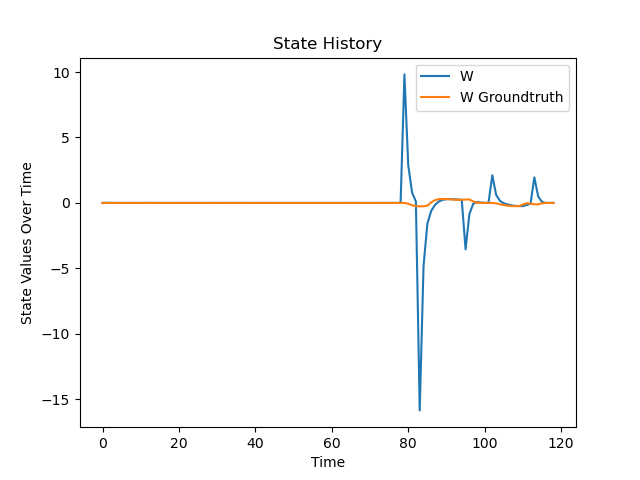
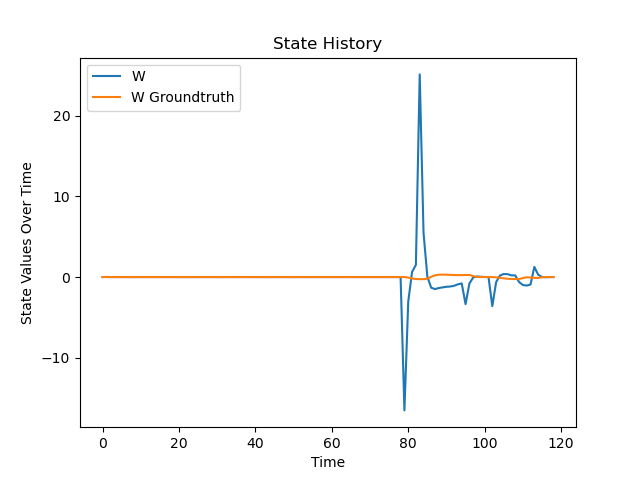
Updated code to match corrected model

diff --git a/Python_Code/EKF_pred.py b/Python_Code/EKF_pred.py
@@ -1,7 +1,7 @@
 import numpy as np  
 from var_store import var_store
 import math as m
-from math import tan,cos
+from math import tan,cos,sqrt
 
 class EKF_pred(var_store):
 
@@ -25,9 +25,9 @@ class EKF_pred(var_store):
 		#vars from input		
 		del_dot_m1	= self.del_dot_m1(del_k_m1)	
 		#print('del_dot_m1',del_dot_m1)
-		row_1 = np.array([dt*(-b + c1) + 1,0,0])
-		row_2 = np.array([L*dt*tan(del_k_m1)/(L**2 + L_r**2*tan(del_k_m1)**2),1,0])
-		row_3 = np.array([L*del_dot_m1*dt*(L**2 - L_r**2*tan(del_k_m1)**2)/((L**2 + L_r**2*tan(del_k_m1)**2)**2*cos(del_k_m1)**2),0,1])
+		row_1 = np.array([1 + (c1 - b)*dt,0,0])
+		row_2 = np.array([tan(del_k_m1)*dt/sqrt(L**2 + L_r**2*tan(del_k_m1)**2),1,0])
+		row_3 = np.array([L**2*del_dot_m1*(tan(del_k_m1)**2 + 1)*dt/(L**2 + L_r**2*tan(del_k_m1)**2)**1.5,0,1])
 		ret_val =  np.stack([row_1,row_2,row_3])
 		assert ret_val.shape == (3,3), 'weird jacobian size'
 		return ret_val
@@ -42,7 +42,6 @@ class EKF_pred(var_store):
 	def del_dot_m1(self,del_k_m1):
 		self.del_dot_m1_val = (del_k_m1 - self.del_k_m2)/self.dt()
 		#print('self.del_k_m2 ',type(self.del_k_m2))
-		print(self.del_dot_m1_val )
 		return self.del_dot_m1_val 
 
 	#Deceleration caused by drag [m/s2]
@@ -71,8 +70,8 @@ class EKF_pred(var_store):
 		return self.Bk_m1_val
 
 	#friction coefficient
-	def b(self,s=1):
-		self.b_val =  0.365056*(s**(-1))
+	def b(self):
+		self.b_val = 0.365056
 		return self.b_val
 
 
@@ -90,16 +89,16 @@ class EKF_pred(var_store):
 		#check if sterring ange makes sense
 		assert del_k_m1 < m.pi/2 and del_k_m1 > -1 *m.pi/2, 'steering agle out of bounds'
 		#calc_1
-		vk = vk_m1 + (self.af(T_k_m1,vk_m1) - self.ad(vk_m1))*self.dt(0.4)
+		vdot = self.af(T_k_m1,vk_m1) - self.ad(vk_m1)
+		vk = vk_m1 + vdot*self.dt()
 		#calc_2
 		thetha_k = thetha_k_m1 + \
-				((self.L*m.tan(del_k_m1))/(self.L**2 + (self.L_r**2)*(m.tan(del_k_m1)**2)))\
-						*vk_m1*self.dt()
+				tan(del_k_m1)*vk_m1*self.dt()/sqrt(self.L**2 + self.L_r**2*tan(del_k_m1)**2)
+
 		#calc_3
-		w_k = w_k_m1 + ((self.L*(self.L**2 - (self.L_r**2)*\
-			(m.tan(del_k_m1)**2)))/(((self.L**2 + (self.L_r**2)*(m.tan(del_k_m1)**2))**2)\
-				*(m.cos(del_k_m1)**2)))\
-						*vk_m1*self.del_dot_m1(del_k_m1)*self.dt()
+		w_k = w_k_m1 + (vk_m1*self.del_dot_m1(del_k_m1)*self.L**2*(tan(del_k_m1)**2 + 1) + \
+			vdot*tan(del_k_m1)*(self.L**2 + self.L_r**2*tan(del_k_m1)**2))*self.dt()/ \
+			(self.L**2 + self.L_r**2*tan(del_k_m1)**2)**1.5
 		
 		#save value for next iteration
 		self.del_k_m2 = del_k_m1[0]		

diff --git a/Python_Code/EKF_Corr.py b/Python_Code/EKF_Corr.py
@@ -25,8 +25,7 @@ class EKF_corr(EKF_pred):
 	def Pk_corr(self,Pk_m1,Xk,Uk):
 		#Xk and Uk are actually predm1 and m1
 		#written as Xk,Uk for simplicity
-		identity = np.eye(3)
-		self.Pk_corr_val = (identity - (self.Kk_corr(Pk_m1,Xk,Uk)\
+		self.Pk_corr_val = (np.eye(3) - (self.Kk_corr(Pk_m1,Xk,Uk)\
 			@self.Hk(Xk,Uk)))@self.Pk(Pk_m1,Xk,Uk)
 		return self.Pk_corr_val
 
@@ -41,7 +40,7 @@ class EKF_corr(EKF_pred):
 
 	#jacobian of h(x)
 	def Hk(self,Xk,Uk):		
-		return self.Fk(Xk,Uk)
+		return np.eye(3)
 
 ##################	#########	#########	#########	#########	#########	#########			
 def read_csv(fil_path):
@@ -164,7 +163,7 @@ def main_loop(Yk,Uk):
 	K_hist = []
 	Xk_pred_corr_k_m1 = np.array([Yk[0]]).transpose()
 	state_hist.append(Xk_pred_corr_k_m1)
-	Pk_m1 = np.random.rand(3,3)
+	Pk_m1 = np.eye(3)
 	for i in range(1,len(Uk)):
 		#set carla data
 		EKF_corr.dt()

diff --git a/Python_Code/var_store.py b/Python_Code/var_store.py
@@ -4,8 +4,8 @@ class var_store:
 	#values subject to change after receiving simulation data
 	def __init__(self):
 		#global state vars
-		self.Q = np.eye(3)
-		self.R = np.eye(3)
+		self.Q = np.array([[0.5, 0, 0], [0, 0.1, 0], [0, 0, 0.1]])
+		self.R = np.array([[0.5, 0, 0], [0, 0.1, 0], [0, 0, 0.1]])
 		self.del_k_m2 = 1
 		#store_vals
 		self.Pk_val = None
